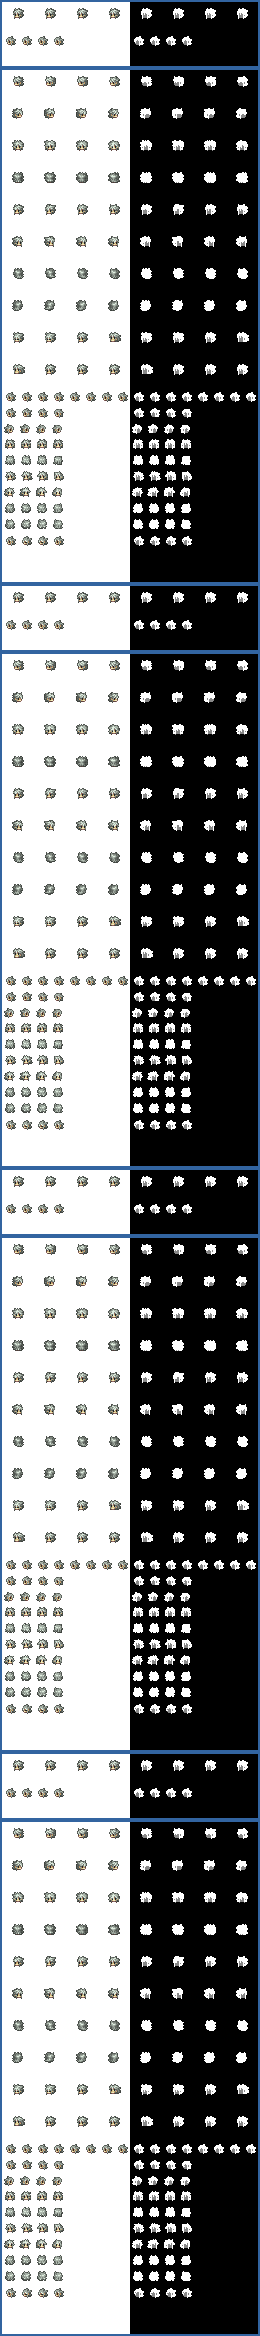
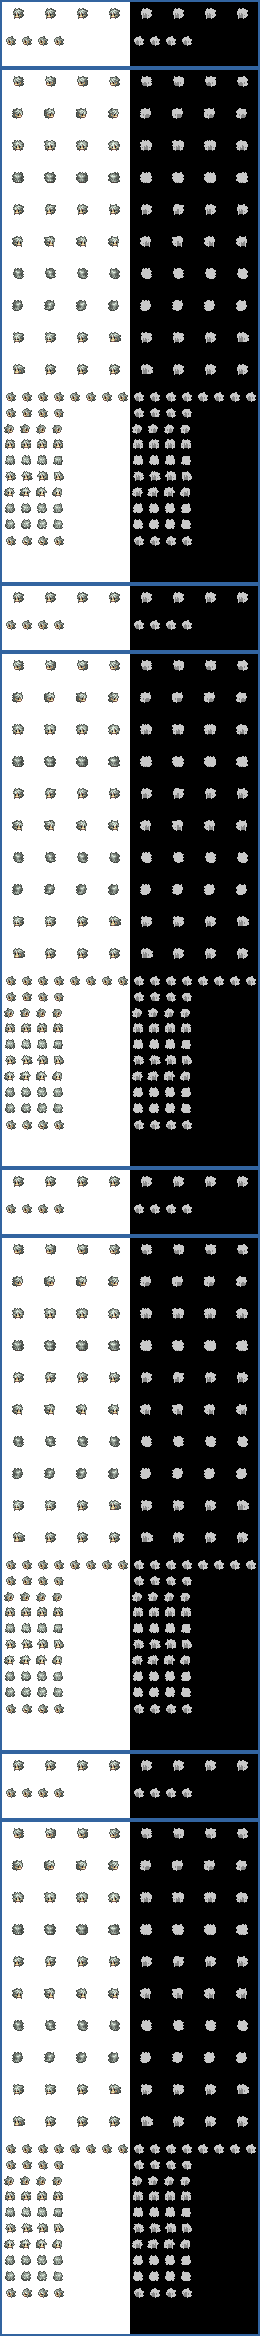
Fixed villager-m and villager-f

diff --git a/splitter.py b/splitter.py
@@ -397,6 +397,14 @@ HEAD_PARAMS = {
         'offset': [(1,2),(1,2),(1,1),(1,1),],
         'size': 'large',
         },
+    'villager-f': {
+        'offset': [(1,1),(1,0),(1,0),(1,1)],
+        'size': 'large',
+        },
+    'villager-m': {
+        'offset': [(1,1),(1,0),(1,0),(1,1)],
+        'size': 'large',
+        },
     'wyvern-lord': {
         'offset': [(-2,0),(-2,-2),(-2,-1),(-2,-1),],
         'size': 'small',
